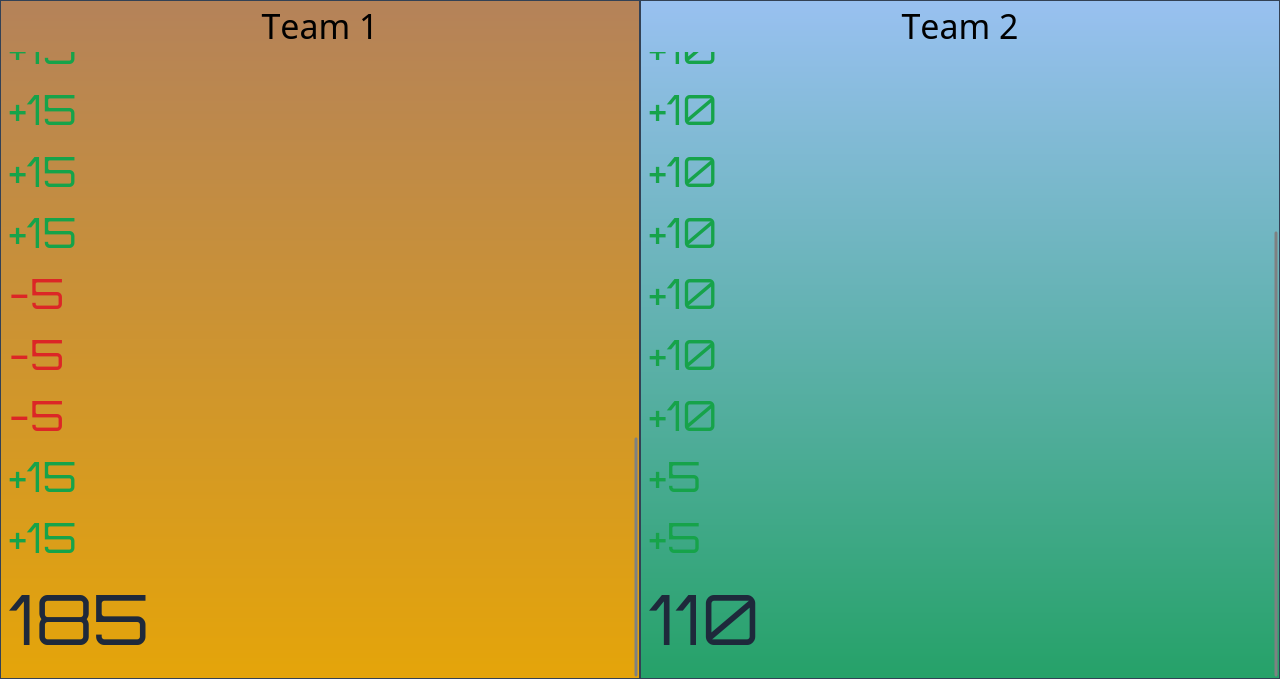
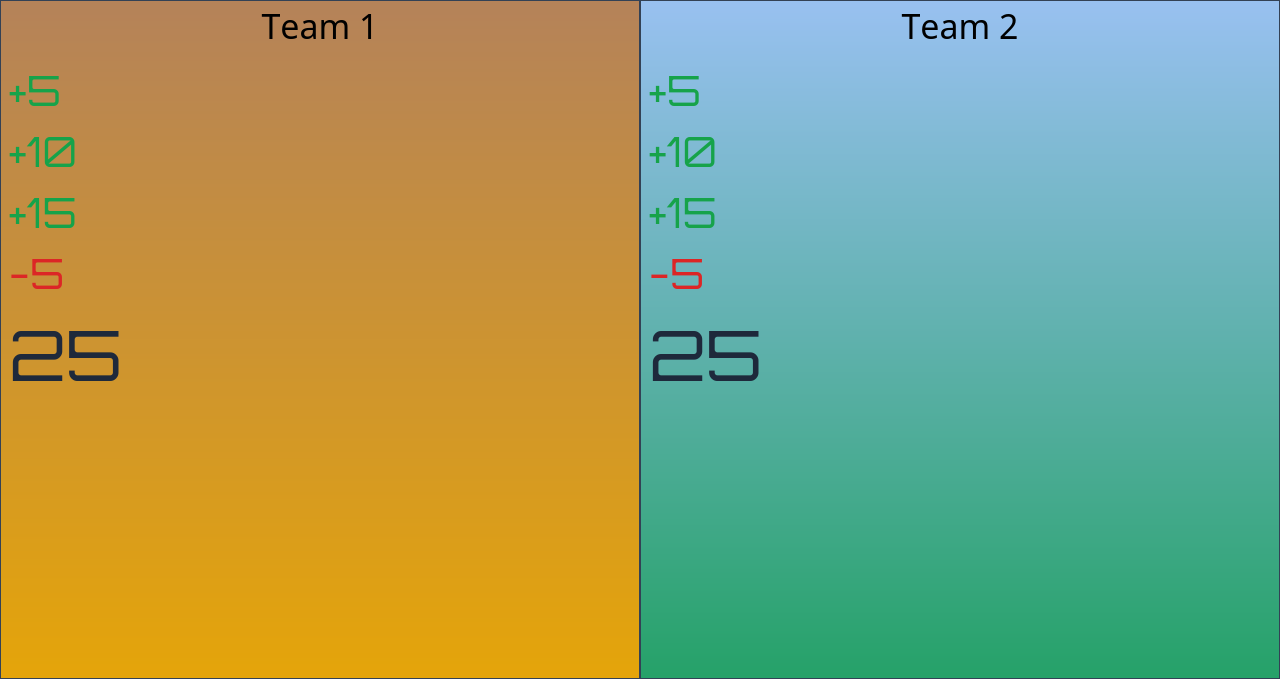
micah's layout and some other stuff

diff --git a/src/pages/match/[id]/present/micah/index.tsx b/src/pages/match/[id]/present/micah/index.tsx
@@ -1,0 +1,123 @@
+import type { Match, Team } from "@prisma/client";
+import type { GetServerSidePropsContext, NextPage, PreviewData } from "next";
+import type { Session } from "next-auth";
+import { getSession } from "next-auth/react";
+import Head from "next/head";
+import type { ParsedUrlQuery } from "node:querystring";
+import { useState } from "react";
+import MatchScoreBox from "../../../../../components/present/micah/box";
+import { appRouter } from "../../../../../server/api/root";
+import { api } from "../../../../../utils/api";
+import { prisma } from "../../../../../server/db";
+import { FullScreen, useFullScreenHandle } from "react-full-screen";
+
+const PresentScores: NextPage<{
+  match: Match & {
+    Team1: Team;
+    Team2: Team;
+  };
+  session: Session | null;
+}> = ({ match }) => {
+  const [scoreData, setScoreData] = useState<matchScore>({ events: [] });
+  api.scoring.fetch.useQuery(
+    { id: match.id },
+    {
+      onSuccess(data) {
+        if (data.data.status != "ok") throw new Error();
+        setScoreData(data.data.score);
+      },
+      refetchInterval: 300,
+    }
+  );
+
+  const handleFullScreen = useFullScreenHandle();
+  const [hideFullScreenBar, setHideFullScreenBar] = useState(false);
+  const handleHideFullScreenBar = () => {
+    setHideFullScreenBar(true);
+  };
+
+  return (
+    <>
+      <Head>
+        <title>Present Scores</title>
+      </Head>
+      <FullScreen handle={handleFullScreen}>
+        <main className="flex max-h-screen w-screen flex-col justify-center">
+          <div className="grid max-h-screen w-screen grid-cols-2">
+            <MatchScoreBox
+              data={scoreData}
+              team={1}
+              backgroundColor={match.Team1.color1 ?? "#FFFFFF"}
+              textColor={match.Team1.color2 ?? "#FFFFFF"}
+              teamName={match.Team1.name}
+            />
+            <MatchScoreBox
+              data={scoreData}
+              team={2}
+              backgroundColor={match.Team2.color1 ?? "#FFFFFF"}
+              textColor={match.Team2.color2 ?? "#FFFFFF"}
+              teamName={match.Team2.name}
+            />
+          </div>
+        </main>
+
+        {!handleFullScreen.active && !hideFullScreenBar && (
+          <div className="flex flex-row justify-around dark:bg-[#282a36] dark:text-[#f8f8f2]">
+            <button
+              className="border border-blue-500 p-2 text-2xl dark:border-[#6272a4]"
+              onClick={() => {
+                void handleFullScreen.enter();
+              }}
+            >
+              enter fullscreen
+            </button>
+            <button
+              className="border border-blue-500 p-2 text-2xl dark:border-[#6272a4]"
+              onClick={() => {
+                handleHideFullScreenBar();
+              }}
+            >
+              hide this
+            </button>
+          </div>
+        )}
+      </FullScreen>
+    </>
+  );
+};
+
+export default PresentScores;
+
+export const getServerSideProps = async (
+  context: GetServerSidePropsContext<ParsedUrlQuery, PreviewData>
+) => {
+  const session = await getSession(context);
+  const { id } = context.params!;
+  if (!id || Array.isArray(id)) throw new Error("bad id");
+
+  const caller = appRouter.createCaller({
+    session: session,
+    prisma: prisma,
+  });
+
+  const match = await caller.match.fetch({ id });
+  if (match.data.status == "not-found")
+    return {
+      notFound: true,
+    };
+  if (match.data.status != "ok") throw new Error();
+
+  if (!match.data.match.Team1 || !match.data.match.Team2)
+    return {
+      redirect: {
+        destination: "/match/" + match.data.match.id,
+        permanent: false,
+      },
+    };
+  return {
+    props: {
+      session,
+      match: match.data.match,
+    },
+  };
+};

diff --git a/src/components/present/micah/box.tsx b/src/components/present/micah/box.tsx
@@ -1,0 +1,65 @@
+import { useEffect, useRef } from "react";
+import { Orbitron } from "@next/font/google";
+import { matchScoreEventType } from "../../../utils/enums";
+
+const orbitron = Orbitron({ subsets: ["latin"] });
+
+/**
+ * Scrollable box with match score events
+ */
+const MatchScoreBox: React.FC<{
+  data: matchScore;
+  team: number;
+  textColor: string;
+  backgroundColor: string;
+  teamName: string;
+}> = (props) => {
+  const scrollItems: JSX.Element[] = [];
+  let totalScore = 0;
+  let keys = 0;
+  for (const event of props.data.events) {
+    if (event.type == matchScoreEventType.add && event.team == props.team) {
+      scrollItems.push(
+        <div
+          className="text-[6vh]"
+          style={{ color: props.textColor }}
+          key={keys++}
+        >
+          {event.score > 0 && "+"}
+          {event.score}
+        </div>
+      );
+      totalScore += event.score;
+    }
+  }
+
+  const messagesEndRef = useRef(null);
+  const scrollToBottom = () => {
+    // eslint-disable-next-line @typescript-eslint/ban-ts-comment
+    //@ts-ignore
+    // eslint-disable-next-line @typescript-eslint/no-unsafe-call
+    messagesEndRef.current?.scrollIntoView({ behavior: "smooth" });
+    // take that, typechecking errors i don't know how to deal with
+  };
+
+  useEffect(() => {
+    scrollToBottom();
+  });
+  return (
+    <div
+      className={`grid h-screen w-full grid-cols-3 p-2 ${orbitron.className}`}
+      style={{ backgroundColor: props.backgroundColor }}
+    >
+      <div className="h-full w-full overflow-y-auto ">
+        {scrollItems}
+        <div ref={messagesEndRef} />
+      </div>
+      <div className="text-center" style={{ color: props.textColor }}>
+        <div className="text-[5vh]">{props.teamName}</div>
+        <div className="text-[11vh]">{totalScore}</div>
+      </div>
+    </div>
+  );
+};
+
+export default MatchScoreBox;

diff --git a/src/utils/present-list.ts b/src/utils/present-list.ts
@@ -6,6 +6,13 @@ const presentScreens: presentScreen[] = [
     description: "The original score screen",
     slug: "classic",
   },
+  {
+    name: "Micah's version",
+    author: "Dominic (design by Micah Carlson)",
+    authorLink: "https://micah.page",
+    description: "Micah's design",
+    slug: "micah",
+  },
 ];
 
 export default presentScreens;

diff --git a/README.md b/README.md
@@ -46,4 +46,5 @@ This project uses the [t3 stack](https://create.t3.gg): next.js, tailwindcss, pr
     - Called "Team 2"
     - Color 1: `#26a269`
     - Color 2: `#99c1f1`
+  - Each team should have a +5 +10 +15 and +5 event shown (total score of 25)
 - Create a PR and wait for me to merge!
